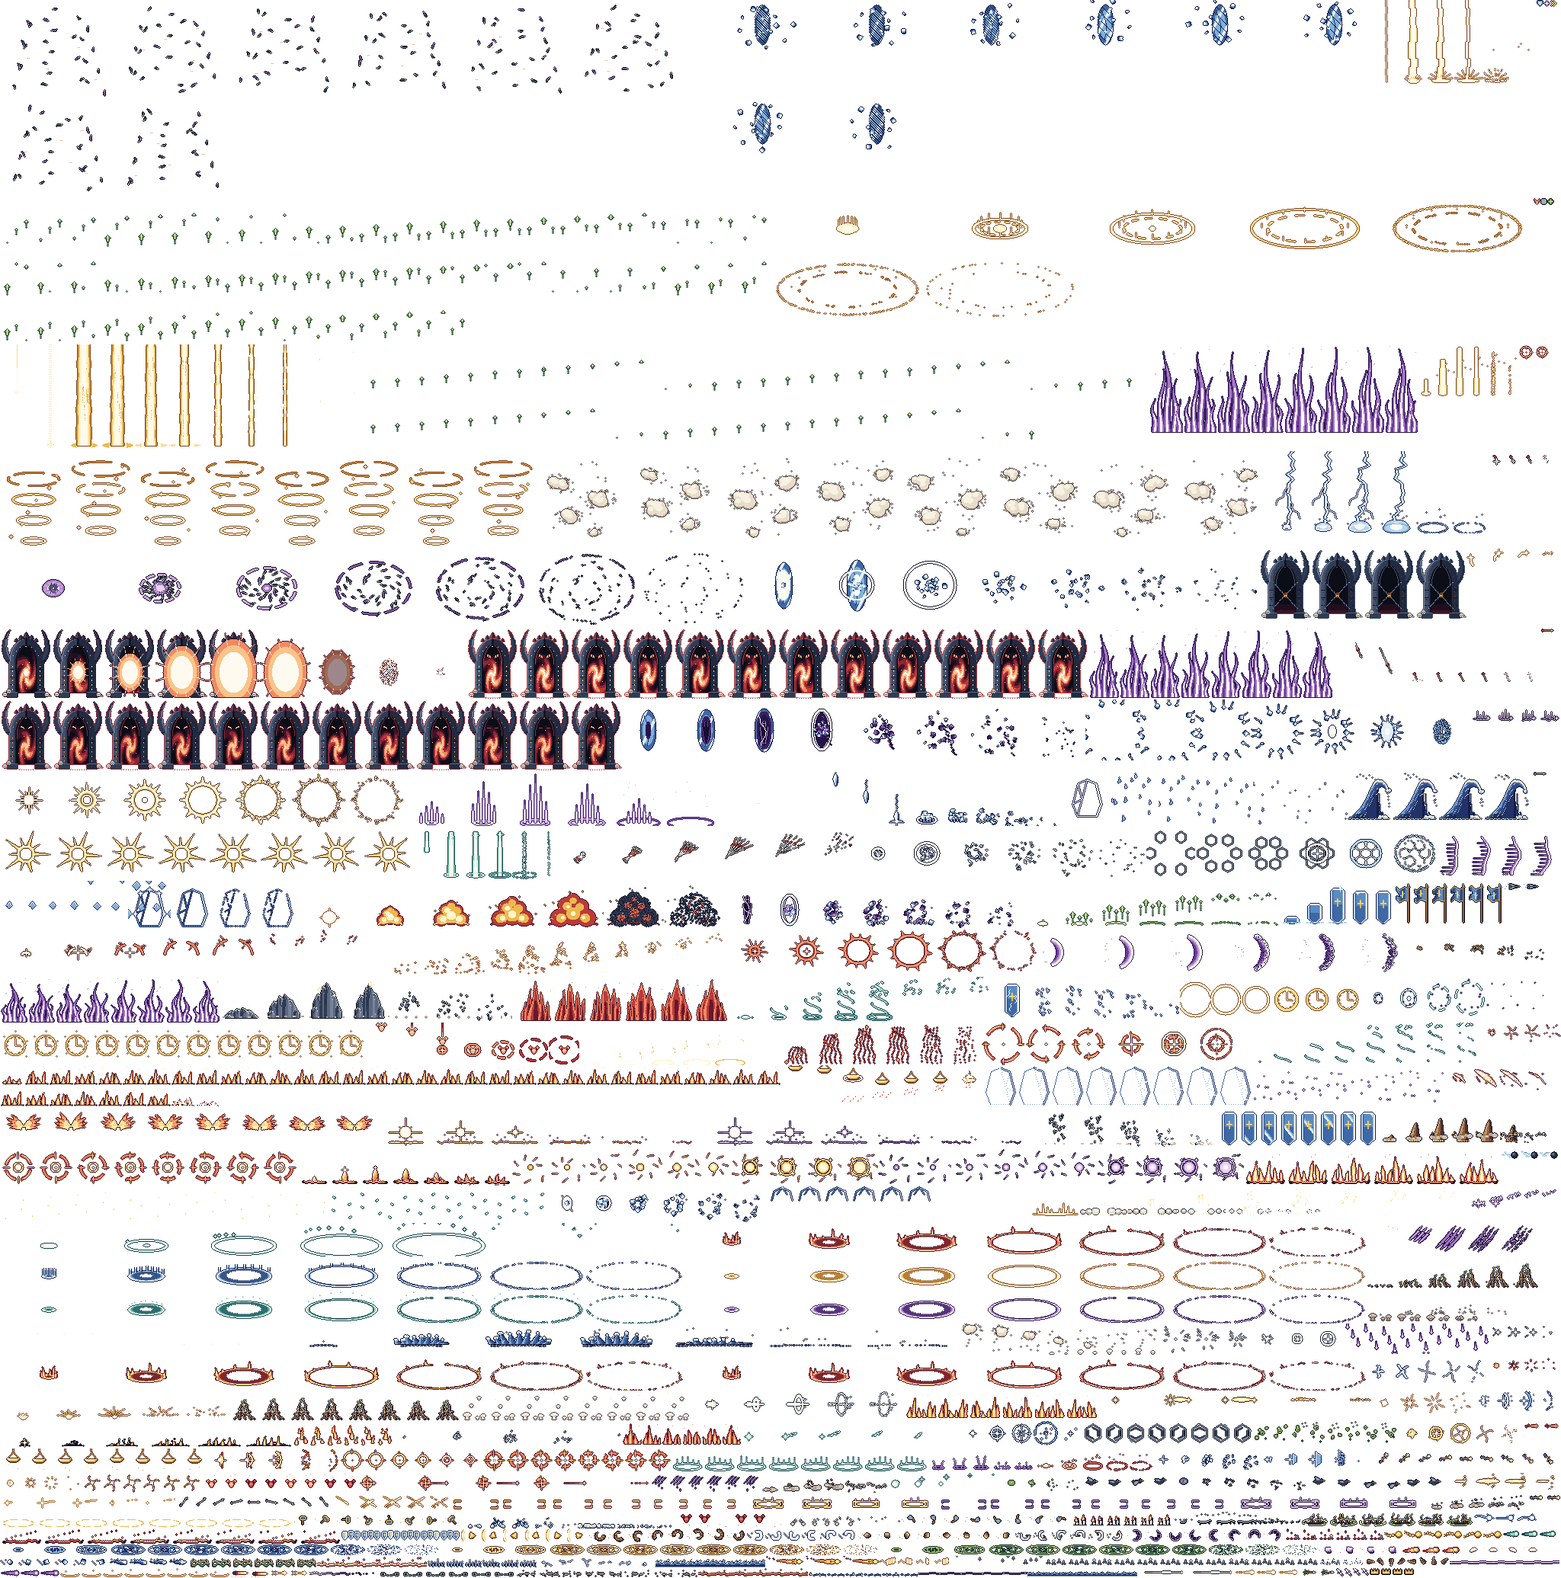
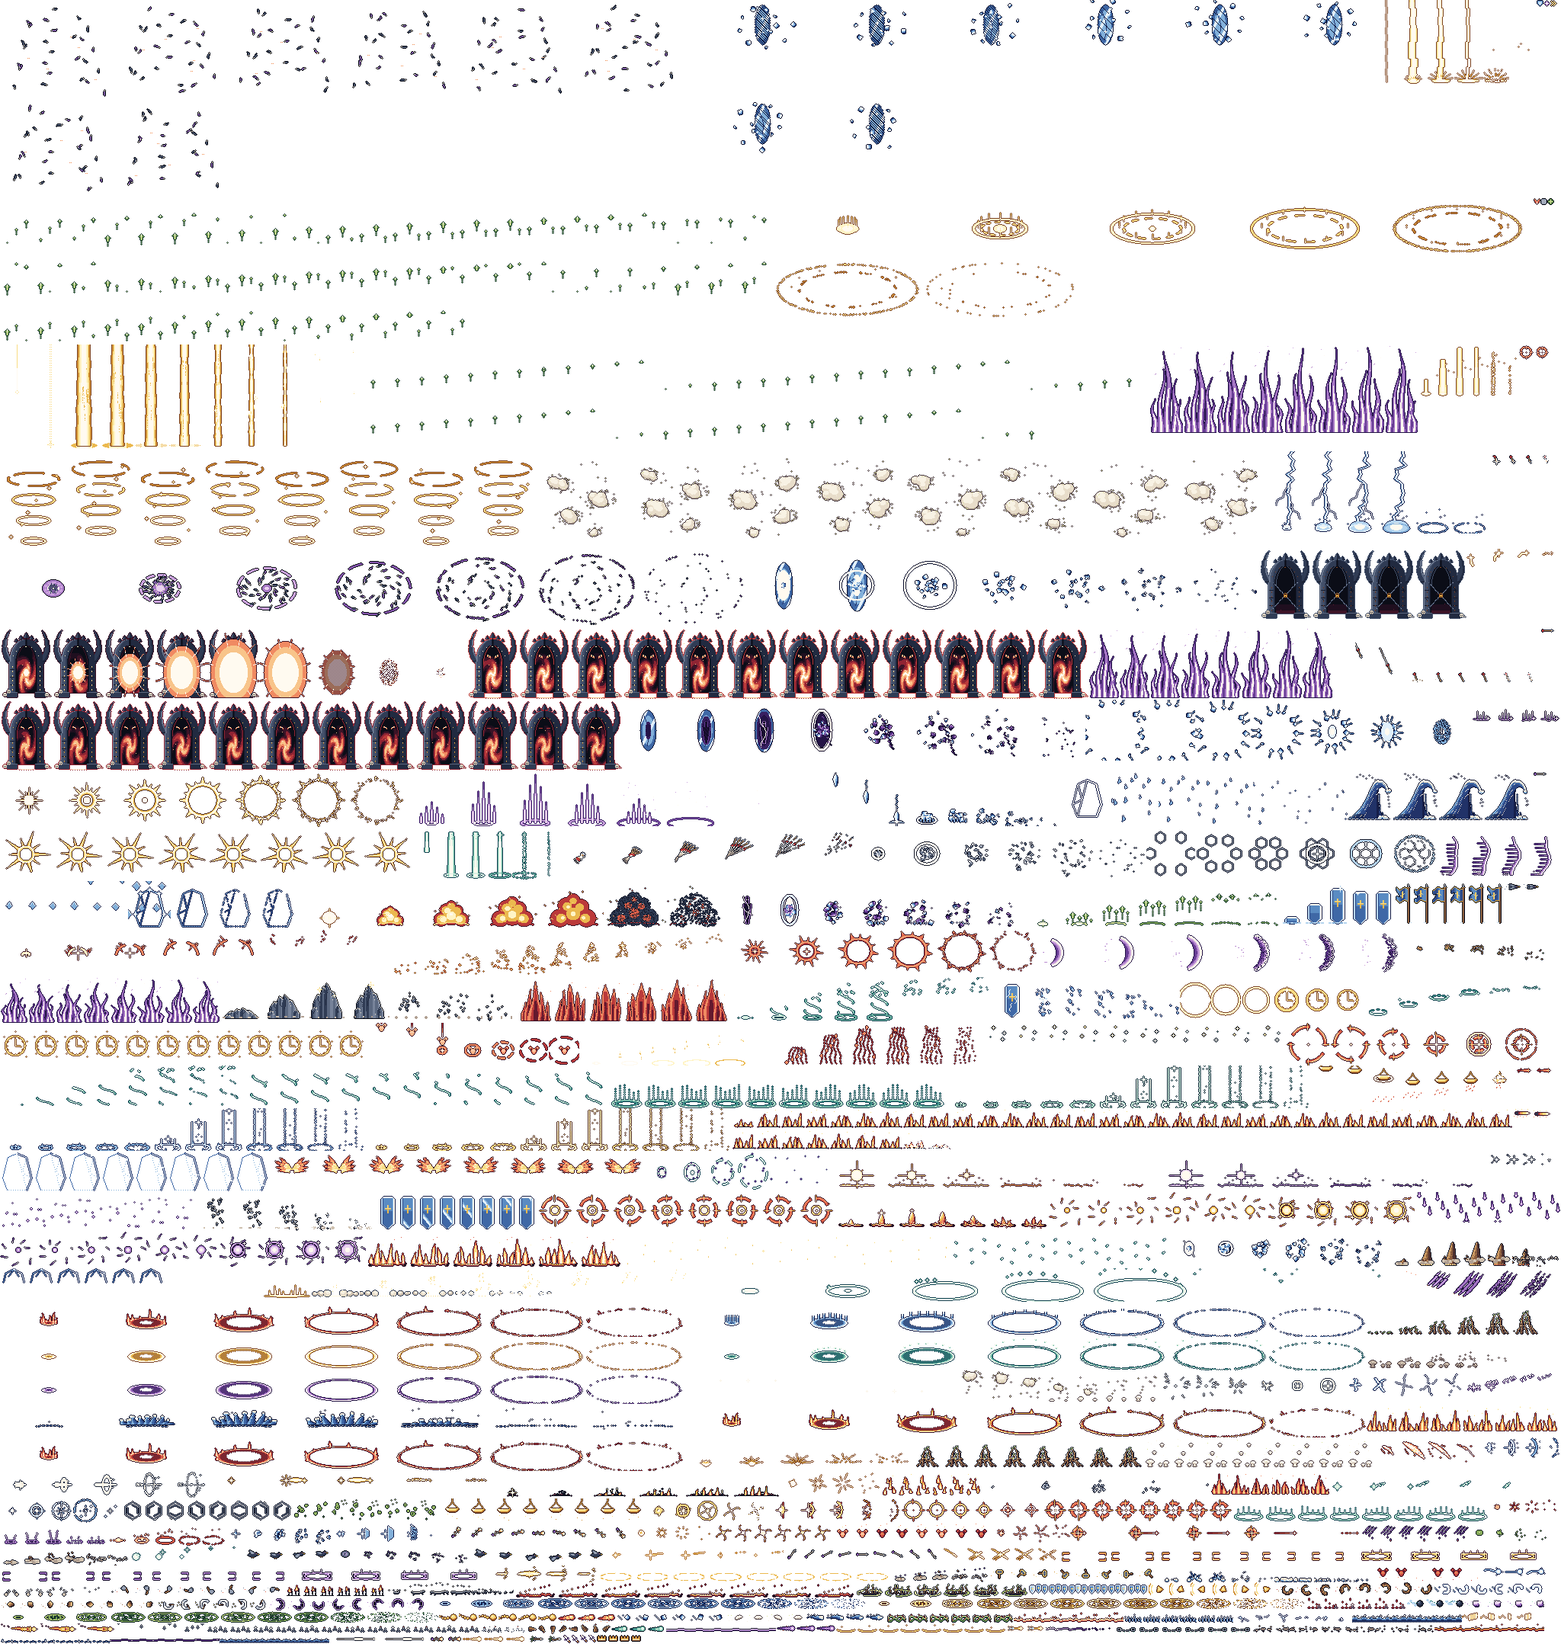
feat(fx): the heals over time read on the ally — Mend's mint ribbon, Mending Light's glints, a stronger Sanctuary, a pulse each second and, on the life bar, what the heal still has to give; every ability of the Priest opens with a ring of runes and a pillar of light (mint heal, azure shield, gold wr

diff --git a/src/game/render/abilityFx.ts b/src/game/render/abilityFx.ts
@@ -158,6 +158,16 @@ export function lookUp(slot: FxSlot | undefined, look: LastingLook): number {
   return look.up ?? (slot === 'mark' ? MARK_UP : 0);
 }
 
+// The Priest's abilities — never her basic attacks, which look like spells too — each open with a sign of their own
+// (2026-11-18, lab v84; user: «apenas se distingue cuando está autoatacando de cuando está casteando»): a ring of runes
+// kindles under her feet through the gesture and a pillar of light goes up her at the release, mint for a heal, azure
+// for a shield, white-gold for wrath. From the clip's start (not `atBlow`): it times its own flare to her release.
+const SIGIL = {
+  heal: { fx: 'sigil_heal', spot: 'caster-under' },
+  ward: { fx: 'sigil_ward', spot: 'caster-under' },
+  wrath: { fx: 'sigil_wrath', spot: 'caster-under' },
+} as const satisfies Record<string, CastBurst>;
+
 export const ABILITY_LOOKS: Readonly<Record<string, AbilityLook>> = {
   // ── Knight ──
   knight_guard: {}, // Stone Skin: the stone rising is the opening of its lasting look (also on the ally Shared Skin covers)
@@ -196,28 +206,28 @@ export const ABILITY_LOOKS: Readonly<Record<string, AbilityLook>> = {
   ranger_mark: { cast: [{ fx: 'mark_call', spot: 'caster-over', atBlow: true, dx: 10, dy: -22 }] },
   // ── Priest ── A heal is mint and soft, a shield azure and faceted, power bright yellow, wrath white-gold.
   // Mend: petals of mint light leave her lantern; the heal winding up the hurt one is the opening of its lasting look.
-  priest_mend: { cast: [{ fx: 'mend_gift', spot: 'caster-over', atBlow: true, dx: 21, dy: -19 }] },
+  priest_mend: { cast: [SIGIL.heal, { fx: 'mend_gift', spot: 'caster-over', atBlow: true, dx: 21, dy: -19 }] },
   // Healing Light: the book flares and a cross jumps off it; a shaft of light DROPS on the one it heals at once
   // (`healOn`) — an instant heal strikes, where Mend's ribbon winds up slowly.
-  priest_healing_light: { cast: [{ fx: 'swift_gift', spot: 'caster-over', atBlow: true, dx: 15, dy: -24 }], healOn: 'swift_light' },
+  priest_healing_light: { cast: [SIGIL.heal, { fx: 'swift_gift', spot: 'caster-over', atBlow: true, dx: 15, dy: -24 }], healOn: 'swift_light' },
   // Holy Shield: the book flashes; the glass closing round the tank is the opening of its lasting look.
-  priest_holyshield: { cast: [{ fx: 'ward_spark', spot: 'caster-over', atBlow: true, dx: 15, dy: -24 }] },
+  priest_holyshield: { cast: [SIGIL.ward, { fx: 'ward_spark', spot: 'caster-over', atBlow: true, dx: 15, dy: -24 }] },
   // Holy Nova: the staff's foot strikes, a ring of light opens under the wave and shafts burst up through it, near to far.
   priest_nova: {
-    cast: [{ fx: 'nova_flash', spot: 'caster-over', atBlow: true, dx: 8 }, { fx: 'nova_ring', spot: 'wave', atBlow: true, dy: 2 }],
+    cast: [SIGIL.wrath, { fx: 'nova_flash', spot: 'caster-over', atBlow: true, dx: 8 }, { fx: 'nova_ring', spot: 'wave', atBlow: true, dy: 2 }],
     band: [{ fx: 'nova_shaft', layer: 'air', every: 15, sweepMs: 220, atBlow: true, delayMs: 40 }],
     hit: 'nova_hit', hitDelayMs: 150,
   },
   // Circle of Healing: one bright ring flashes out under the whole party and throws crosses of light up — nothing
   // stays (Sanctuary's ring is slower and leaves each of them standing in a glow); each of them blooms like any heal.
   // (Retribution Aura is a passive talent now: its seal and tread are lasting looks under its stand-in key.)
-  priest_circle: { cast: [{ fx: 'circle_pulse', spot: 'party', atBlow: true, dy: 2 }] },
+  priest_circle: { cast: [SIGIL.heal, { fx: 'circle_pulse', spot: 'party', atBlow: true, dy: 2 }] },
   // Sanctuary: a ring of mint light opens under the whole party; the glow each of them stands in is its lasting look.
-  priest_sanctuary: { cast: [{ fx: 'sanctuary_ring', spot: 'party', atBlow: true, dy: 2 }] },
+  priest_sanctuary: { cast: [SIGIL.heal, { fx: 'sanctuary_ring', spot: 'party', atBlow: true, dy: 2 }] },
   // Smite: light falls on the enemy from the sky (the heal it carries blooms on the ally like any heal).
-  priest_smite: { hit: 'smite_strike', hitSpot: 'ground' },
+  priest_smite: { cast: [SIGIL.wrath], hit: 'smite_strike', hitSpot: 'ground' },
   // Battle Enrage: a wave of crimson fire runs under the party; the wings each of them wears are its lasting look.
-  priest_enrage: { cast: [{ fx: 'zeal_wave', spot: 'party', atBlow: true, dy: 2 }] },
+  priest_enrage: { cast: [SIGIL.wrath, { fx: 'zeal_wave', spot: 'party', atBlow: true, dy: 2 }] },
 };
 
 /** The arrow a class's basic attack shoots (render/fxData); a class without one keeps the old projectile. */
@@ -283,7 +293,8 @@ export const PENDING_ABILITIES: readonly string[] = [];
 const SHIELD_ARRIVES_MS = 400;
 const INFUSION_ARRIVES_MS = 450;
 // (`around`, not `body`: a mended Knight is often stone, and Stone Skin's glint lives in `body`.)
-const MENDING: readonly LastingLook[] = [{ slot: 'around', fx: 'mend_petals', start: 'mend_wind', priority: 1, delayMs: 420 }];
+// 2026-11-18 (lab v84, approved): Mend's heal winds up the body, then stays as one mint ribbon wound round it, turning.
+const MENDING: readonly LastingLook[] = [{ slot: 'around', fx: 'mend_wrap', start: 'mend_wind', priority: 1, delayMs: 420 }];
 
 const WEAKENED: readonly LastingLook[] = [{ slot: 'body', fx: 'sapped', tile: true }, { slot: 'overhead', fx: 'weak_mark' }];
 const HOBBLED: readonly LastingLook[] = [{ slot: 'feet', fx: 'hobble', tile: true }];
@@ -334,12 +345,12 @@ export const EFFECT_LOOKS: Readonly<Record<string, readonly LastingLook[]>> = {
   // Killing Field: a thorned snare round the feet of the whole wave.
   debuff_field_slow: [{ slot: 'ground', fx: 'snare', tile: true }],
   // ── Priest ──
-  // Mend (and Mending Light, the same thing left by Smite): the heal winds up the body once, then petals of mint
-  // light keep leaving it for as long as it mends.
+  // Mend: the heal winds up the body once, then a ribbon of mint light stays wound round it while it mends. Mending
+  // Light (left by Smite): glints of gold-mint light hang round the head and shoulders. (2026-11-18, lab v84.)
   fx_hot: MENDING,
-  fx_light: MENDING,
-  // Sanctuary: each of them stands in a ring of mint light on the ground.
-  fx_sanctuary: [{ slot: 'ground', fx: 'sanctuary_glow', priority: 1, delayMs: 420 }],
+  fx_light: [{ slot: 'around', fx: 'light_motes' }],
+  // Sanctuary: each of them stands in a double ring of mint light with rays standing up through them (lab v84).
+  fx_sanctuary: [{ slot: 'ground', fx: 'sanctuary_glow2', priority: 1, delayMs: 420 }],
   // The lesser wards (Deep Sanctuary, Second Wind): a small canopy of the shield's glass over the head.
   fx_ward: [{ slot: 'front', fx: 'ward_veil' }],
   // Power Infusion: a bright yellow AURA that is only a rim — a thin line of light hugging the figure, brightest

diff --git a/src/game/render/LifeBar.ts b/src/game/render/LifeBar.ts
@@ -11,6 +11,7 @@ export class LifeBar extends Container {
   private readonly life = new Sprite();
   private readonly ghost = new Sprite();
   private readonly shield = new Sprite();
+  private readonly coming = new Sprite(); // what a heal over time still has to give (mint, after the life)
   private readonly overlay = new Sprite(); // notches, drawn over the fills
   private casingStem = '';
   private lifeStem = '';
@@ -21,14 +22,16 @@ export class LifeBar extends Container {
     this.setFill(fill);
     this.ghost.texture = stripHudTexture('hud_s_fill_ghost');
     this.shield.texture = stripHudTexture('hud_s_fill_shield');
-    for (const part of [this.life, this.ghost, this.shield]) {
+    this.coming.texture = stripHudTexture('hud_s_fill_coming');
+    for (const part of [this.life, this.ghost, this.shield, this.coming]) {
       part.position.set(spec.ix, spec.iy);
       part.height = spec.ih;
       part.width = 0;
     }
     this.ghost.visible = false;
     this.shield.visible = false;
-    this.addChild(this.casing, this.ghost, this.life, this.shield);
+    this.coming.visible = false;
+    this.addChild(this.casing, this.ghost, this.coming, this.life, this.shield);
     if (overlayStem !== undefined) {
       this.overlay.texture = stripHudTexture(overlayStem);
       this.addChild(this.overlay);
@@ -50,10 +53,17 @@ export class LifeBar extends Container {
     this.life.height = this.spec.ih;
   }
 
-  /** Show `frac` of life, the lagging `ghost` share and a shield worth `shield` of the full life. */
-  set(frac: number, ghost = 0, shield = 0): void {
+  /** Show `frac` of life, the lagging `ghost` share, a shield worth `shield` of the full life and what a heal over
+   *  time still has to give (`coming`, a share of the full life). */
+  set(frac: number, ghost = 0, shield = 0, coming = 0): void {
     const { ix, iw, ih } = this.spec;
-    const seg = barSegments(iw, frac, ghost, shield);
+    const seg = barSegments(iw, frac, ghost, shield, coming);
+    this.coming.visible = seg.comingW > 0;
+    if (seg.comingW > 0) {
+      this.coming.x = ix + seg.life;
+      this.coming.width = seg.comingW;
+      this.coming.height = ih;
+    }
     this.life.width = seg.life;
     this.life.height = ih;
     this.life.visible = seg.life > 0;

diff --git a/src/game/render/stripHud.ts b/src/game/render/stripHud.ts
@@ -57,19 +57,22 @@ export interface BarSegments {
   /** The absorb shield: where it starts and how wide it is (0 = none). */
   shieldX: number;
   shieldW: number;
+  /** What a heal over time still has to give (2026-11-18): a mint stretch right after the life, up to the end. */
+  comingW: number;
 }
 
 /** What fills a well `width` px wide: `frac` of life, the lagging `ghost` share (≥ frac while a hit is fresh),
  *  and a shield worth `shield` of the full life. A living fighter never shows an empty bar; a shield stands
  *  right after the life and, when the two do not fit, lies over the bar's right end. */
-export function barSegments(width: number, frac: number, ghost = 0, shield = 0): BarSegments {
+export function barSegments(width: number, frac: number, ghost = 0, shield = 0, coming = 0): BarSegments {
   const clamp = (v: number): number => Math.max(0, Math.min(1, v));
   const f = clamp(frac);
   const life = f <= 0 ? 0 : Math.max(1, Math.round(width * f));
   const ghostEnd = Math.max(life, Math.round(width * clamp(ghost)));
   const shieldW = shield <= 0 ? 0 : Math.max(1, Math.min(width, Math.round(width * clamp(shield))));
   const shieldX = Math.min(life, width - shieldW);
-  return { life, ghost: ghostEnd - life, shieldX: shieldW === 0 ? 0 : shieldX, shieldW };
+  const comingW = coming <= 0 || life >= width ? 0 : Math.max(1, Math.min(width - life, Math.round(width * clamp(coming))));
+  return { life, ghost: ghostEnd - life, shieldX: shieldW === 0 ? 0 : shieldX, shieldW, comingW };
 }
 
 // ── the lagging slice ("what he just lost") ─────────────────────────────────────────────────────────────────

diff --git a/test/game/stripHud.test.ts b/test/game/stripHud.test.ts
@@ -21,7 +21,7 @@ const heroAbilities = Object.keys(ABILITIES).filter((k) => CLASS_KEYS.some((c) =
 
 describe('a bar of the strip HUD', () => {
   it('fills whole pixels and never shows a living fighter empty', () => {
-    expect(barSegments(24, 1)).toEqual({ life: 24, ghost: 0, shieldX: 0, shieldW: 0 });
+    expect(barSegments(24, 1)).toEqual({ life: 24, ghost: 0, shieldX: 0, shieldW: 0, comingW: 0 });
     expect(barSegments(24, 0.5).life).toBe(12);
     expect(barSegments(24, 0.004).life).toBe(1);
     expect(barSegments(24, 0).life).toBe(0);
@@ -36,6 +36,10 @@ describe('a bar of the strip HUD', () => {
     expect(barSegments(24, 0.5, 0, 0.25)).toMatchObject({ shieldX: 12, shieldW: 6 });
     expect(barSegments(24, 1, 0, 0.25)).toMatchObject({ shieldX: 18, shieldW: 6 });
     expect(barSegments(24, 0.9, 0, 5)).toMatchObject({ shieldX: 0, shieldW: 24 });
+    // What a heal over time still has to give: right after the life, never past the end (2026-11-18).
+    expect(barSegments(24, 0.5, 0, 0, 0.25)).toMatchObject({ life: 12, comingW: 6 });
+    expect(barSegments(24, 0.9, 0, 0, 0.5)).toMatchObject({ comingW: 2 });
+    expect(barSegments(24, 1, 0, 0, 0.5).comingW).toBe(0);
   });
 
   it('holds the lost slice, then drains it; a heal snaps it up', () => {

diff --git a/src/game/render/HeroHud.ts b/src/game/render/HeroHud.ts
@@ -2,6 +2,7 @@ import { Container, Sprite } from 'pixi.js';
 import type { Combatant } from '@/sim/world';
 import { RESPAWN_MS } from '@/data/field';
 import { totalShield } from './effectAuras';
+import { healReceivedMult, hotStillToCome } from '@/sim/effects';
 import { ChipRow } from './ChipRow';
 import { LifeBar } from './LifeBar';
 import {
@@ -106,7 +107,10 @@ export class HeroHud {
       const low = c.alive && frac <= LOW_LIFE;
       this.bar.setFill(low ? 'hud_s_fill_low' : 'hud_s_fill_life');
       this.bar.setCasing(low && Math.floor(this.elapsed / LOW_BEAT_MS) % 2 === 0 ? 'hud_s_bar_hero_low' : BARS.hero.casing);
-      this.bar.set(frac, this.ghost.ghost, c.maxHp > 0 ? totalShield(c.effects) / c.maxHp : 0);
+      // …and, in mint after the life, what the heals over time on him still have to give: it shortens with each pulse,
+      // so it also says how much of the heal is left.
+      const coming = c.maxHp > 0 ? (hotStillToCome(c.effects) * healReceivedMult(c.effects) + (c.hotPending ?? 0)) / c.maxHp : 0;
+      this.bar.set(frac, this.ghost.ghost, c.maxHp > 0 ? totalShield(c.effects) / c.maxHp : 0, coming);
     }
     this.respawn.visible = reviving;
 

diff --git a/src/game/GameStrip.ts b/src/game/GameStrip.ts
@@ -711,8 +711,10 @@ export class GameStrip {
         // reads on the target, not just as a number.
         if (sprite !== undefined && amt > 0) {
           if (ev.type === 'heal') {
-            // The heal that keeps working is seen on the body itself (its lasting look: render/abilityFx).
+            // The heal that keeps working is seen on the body itself (its lasting look: render/abilityFx), and each
+            // of its pulses (once a second: sim/combat) runs a band of mint light up a hero (2026-11-18, lab v84).
             this.floating.spawn(sprite.x, sprite.y - 20, `+${formatDmg(amt)}`, FX.heal, 0.9);
+            heroSprite?.bodyFx.burst('hot_pulse', 'over', 0, 0);
           } else {
             // (A world boss's mechanic that takes its toll in ticks — Culpa — has its own colour and its pang.)
             const kitColor = heroSprite === undefined ? null : this.bossKit.tick(ev, heroSprite);

diff --git a/test/game/priestFx.test.ts b/test/game/priestFx.test.ts
@@ -94,7 +94,7 @@ describe('the Priest', () => {
   it('a heal that keeps working, a shield and a buff sit in different slots: all three show at once', () => {
     const got = wornLooks([worn('fx_hot'), worn('fx_shield', { remainingMs: 3000, totalMs: 4000 }), worn('buff_infusion_as'), worn('fx_sanctuary')], knight);
     expect([...got.slots.keys()].sort()).toEqual(['around', 'front', 'ground']);
-    expect(got.slots.get('around')?.look.fx).toBe('mend_petals'); // the heal's petals…
+    expect(got.slots.get('around')?.look.fx).toBe('mend_wrap'); // the heal's ribbon…
     expect(got.rim?.look.rim).toBe('infused'); // …which still shows by its rim
   });
 

diff --git a/tools/assets/pipeline/fx/priest_care.py b/tools/assets/pipeline/fx/priest_care.py
@@ -1,4 +1,4 @@
-"""DRAFTS for the lab (2026-11-18), not in `ALL` and not exported until the user approves them:
+"""The Priest's care, second pass (2026-11-18; approved on lab v84 — «me gusta todo»):
 
   the heals over time   hot_pulse (each 1 s pulse of a heal over time, on whoever it heals) · mend_wrap (Mend's lasting
                         look: one mint ribbon wound round the body, turning) · light_motes (Mending Light's: glints of
@@ -158,7 +158,7 @@ def sigil_wrath(cel: Cel, i: int, t: float) -> None:
 
 SIGIL_MS = [80, 80, 90, 90, 100, 110, 60, 70, 80, 90, 100, 110]
 
-DRAFTS = [
+FX = [
     Fx("hot_pulse", 40, 56, 20, 52, [60, 60, 70, 70, 80, 90], False, hot_pulse),
     Fx("mend_wrap", 40, 56, 20, 52, [110] * 12, True, mend_wrap),
     Fx("light_motes", 40, 56, 20, 52, [110] * 10, True, light_motes),
@@ -167,3 +167,5 @@ DRAFTS = [
     Fx("sigil_ward", 40, 56, 20, 52, SIGIL_MS, False, sigil_ward),
     Fx("sigil_wrath", 40, 56, 20, 52, SIGIL_MS, False, sigil_wrath),
 ]
+
+DRAFTS = FX  # the lab preview's name for them (pipeline/fx_next_preview.py)

diff --git a/tools/assets/pipeline/icon_sets/s9f_striphud.py b/tools/assets/pipeline/icon_sets/s9f_striphud.py
@@ -93,6 +93,7 @@ def bars() -> list[tuple[str, str, Image.Image]]:
         ("hud_s_fill_low", "Poca vida", column([("crimson", 6), ("crimson", 5), ("crimson", 3)])),
         ("hud_s_fill_ghost", "Lo que acaba de perder", column([("light", 0), ("bone", 6), ("bone", 4)])),
         ("hud_s_fill_shield", "Escudo que absorbe", column([("azure", 8), ("azure", 6), ("azure", 4)])),
+        ("hud_s_fill_coming", "Lo que una cura en el tiempo aún va a dar", column([("sea", 8), ("sea", 6), ("sea", 5)])),
         ("hud_s_fill_respawn", "Cuenta para reaparecer", column([("azure", 5), ("azure", 4), ("azure", 3)])),
         ("hud_s_fill_foe", "Vida de un enemigo", column([("crimson", 5), ("crimson", 4), ("crimson", 3)])),
         ("hud_s_fill_cast", "Lanzamiento", column([("brass", 6), ("brass", 5), ("brass", 3)])),

diff --git a/tools/assets/pipeline/fx_next_preview.py b/tools/assets/pipeline/fx_next_preview.py
@@ -6,7 +6,7 @@ from pathlib import Path
 
 from PIL import Image
 
-from .fx.priest_next import DRAFTS
+from .fx.priest_care import DRAFTS
 from .palette import color
 from .rig import GROUND, bake
 from .roster import load

diff --git a/docs/redesign/PROGRESS.md b/docs/redesign/PROGRESS.md
@@ -2266,3 +2266,8 @@ Decisiones del usuario (18 nov), tras discutirlas una a una:
   lanzamiento de la Priest (`tools/assets/pipeline/fx/priest_next.py`, sin exportar).
 - **Pendiente:** la escalera de muros está ROTA con estos cambios (9 muros no suben; `ladder.test` falla) y el probe
   dirá las horas; el usuario decide con los números (más largo, o rebajar muros a ~3 meses).
+- **Aprobado en el lab v84 («me gusta todo») y metido en el juego:** Mend deja una cinta menta que gira alrededor del
+  aliado (`mend_wrap`), Mending Light chispas (`light_motes`), Sanctuary un círculo doble con rayos (`sanctuary_glow2`);
+  cada pulso de 1 s pasa una banda de luz por el héroe (`hot_pulse`); la barra de vida enseña en menta lo que la cura
+  aún va a dar (`hud_s_fill_coming`, `stripHud.barSegments` `comingW`). Cada habilidad de la Priest abre con su sello de
+  runas y el pilar de luz (`sigil_heal/ward/wrath`, `render/abilityFx` `SIGIL`). Arte en `pipeline/fx/priest_care.py`.
